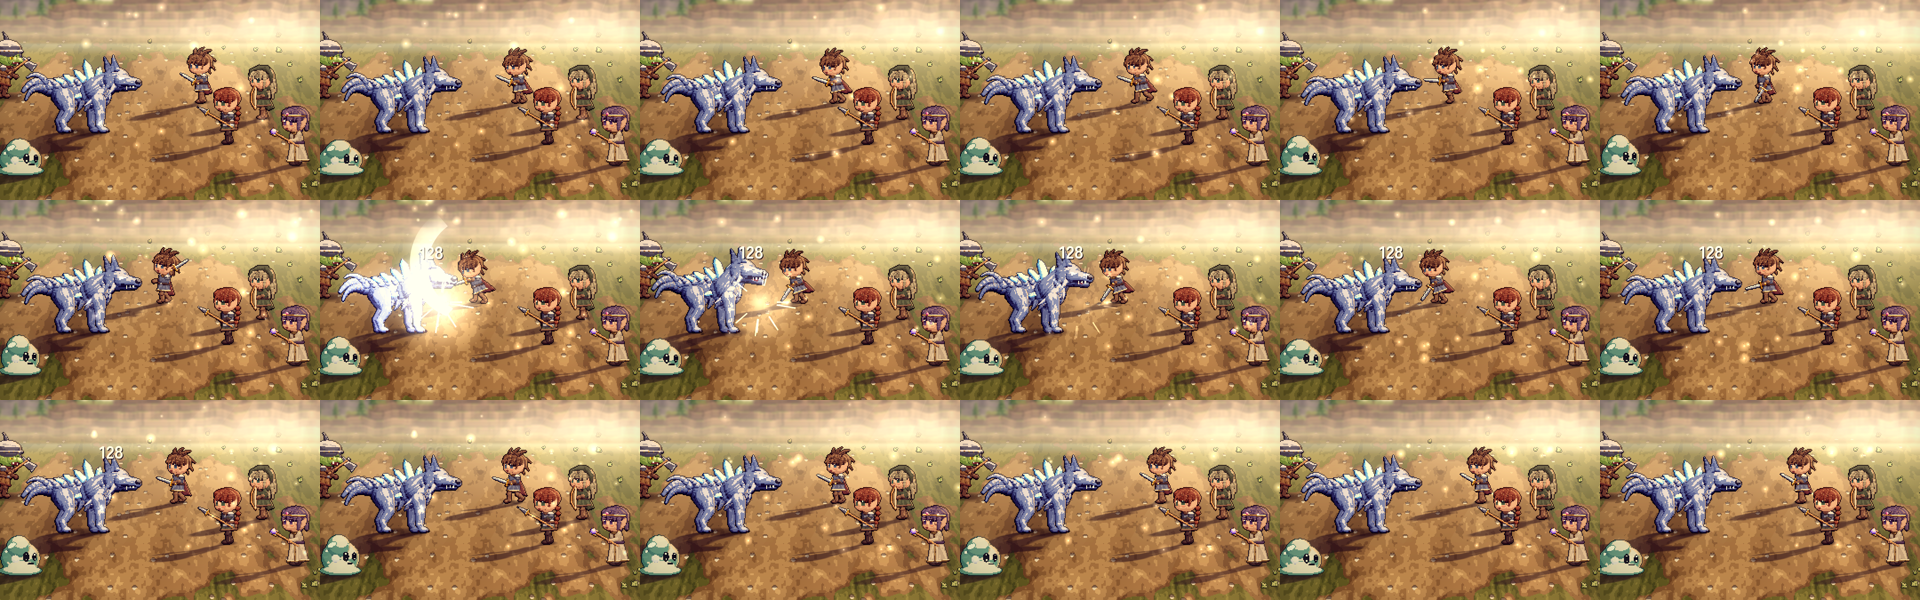
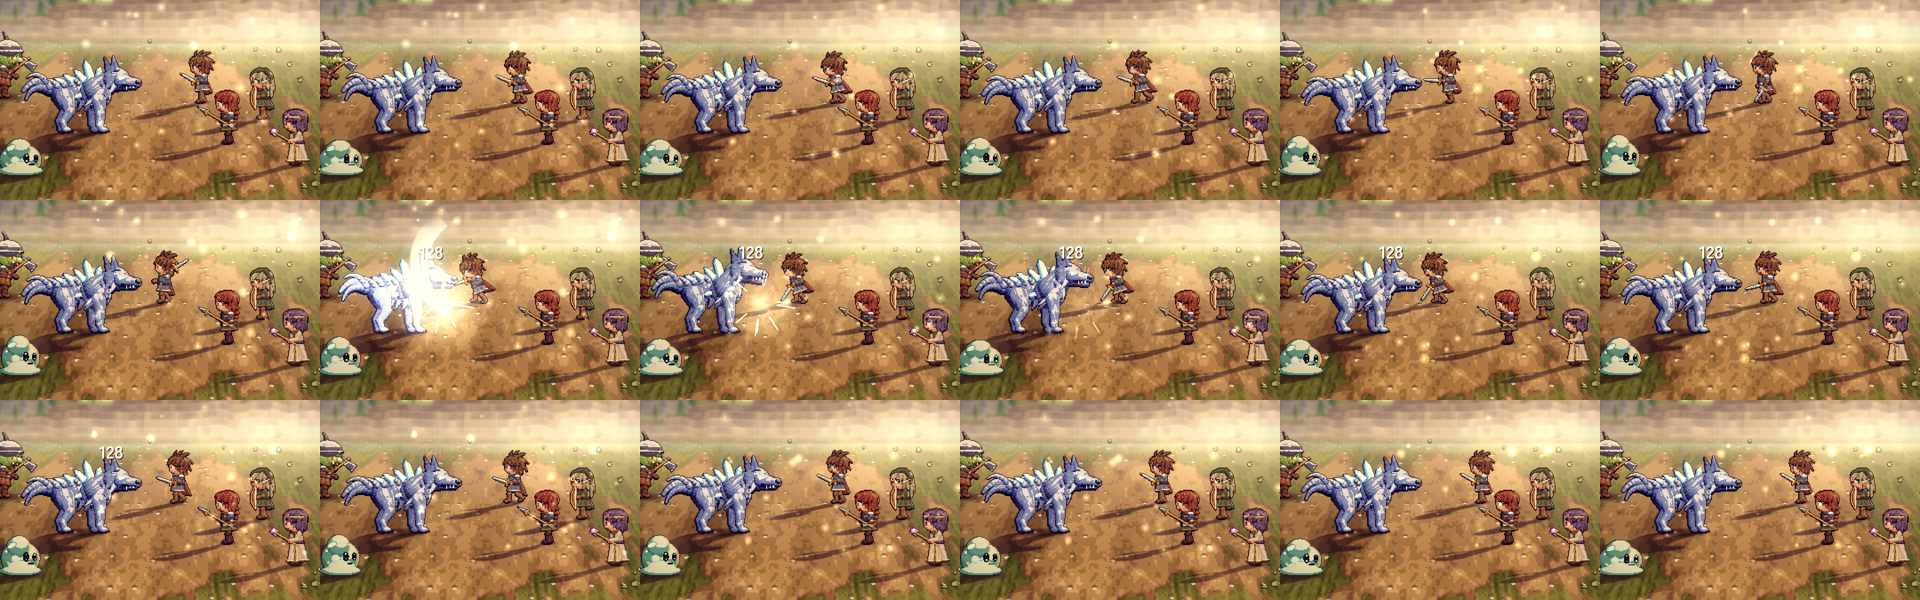
chronicle: WIP from running agents
Claude-Session: https://claude.ai/code/session_0177zLTT6UFzP7vKu3AgJSLT

diff --git a/chronicle/tools/test_battle.js b/chronicle/tools/test_battle.js
@@ -1,6 +1,6 @@
 #!/usr/bin/env node
 // Battle engine tests (node, no DOM) for A2: R.Mon (curves, tier scaling, golden, drops, heal), every damage formula,
-// statuses, buffs, rows and reach, techs / spells / WP / MP, counters and cover, supports (mods), monster AI conds,
+// statuses, buffs, rows and reach, techs / spells / MP, counters and cover, supports (mods), monster AI conds,
 // rounds, escape and preempt, rewards (EXP falloff, reserve 60 %, drops, pools), golden / rare / metal / summon /
 // boss phases, the glimmer hook, リピート R1–R6, live bookkeeping, the party AI (focus fire, thrift, glimmer aiming),
 // simulate(), and a run of every real action / monster / troop / zone in src/data.
@@ -1964,32 +1964,56 @@ guard('party AI', () => quiet(() => {
   ok(pc === 0, 'no percent spells on mobs');
   // the glimmer slot: in mob fights the attack uses a slot with open candidates
   ok(typeof AI.glimSlot === 'function' && typeof AI.candidatesOpen === 'function', 'glimmer aim helpers');
-  // D8 (§4.13.2-d): a middle-row staff (its 攻撃 cannot reach) hunts glimmers with its cheapest reach tech before weapon 2
+  // D8 (§4.13.2-d, SYSTEMS_REWORK §2.6): a middle-row weapon that cannot reach (a dagger — the staff reaches since A19)
+  // hunts glimmers with its cheapest reach tech (刃つぶて) before weapon 2's 攻撃
   const mkHunt = (o) => {
     const x = mk(Object.assign({ mons: ['tb_goblin', 'tb_goblin'] }, o || {}));
     for (const m of x.mons) { withD(m, { hp: 400 }); m.hp = m.mhp = 400; }
-    const mg = P(x, 2);
-    equip(mg, 'weapon2', 'tb_whip');
-    mg.wp = mg.mwp; mg.mp = 0;
+    const ar = P(x, 3);
+    ar.c.equip.weapon1 = 'tb_dagger'; ar.c.equip.weapon2 = 'tb_staff'; ar.c.techs = ['t_dagger_knives']; ar.c.spells = []; ar.c.wprof.dagger = R.Rules.K.PROF_PTS[30]; ar.refresh();
+    ar.mp = ar.mmp;
     return x;
   };
-  const h1 = mkHunt(), mg1 = P(h1, 2);
-  const open1 = AI.candidatesOpen(h1, mg1, { kind: 'tech', wtype: 'staff', rankB: h1.rankB, ef: h1.ef, tier: h1.glimTier, row: 'middle', silenced: false, used: 'tb_t_mind' });
-  ok(h1.effRow(mg1) === 'middle' && !h1.canReach(mg1, 'weapon1') && h1.canReach(mg1, 'weapon2'), 'D8 fixture: the staff cannot reach, the whip can');
-  const r1 = AI.glimReach(h1, mg1, AI.abilityOptions(h1, mg1));
-  ok(open1 && (r1 && r1.o.id === 'tb_t_mind' && r1.slot === 'weapon1'), `D8: glimReach → the staff slot's reach tech (${r1 && r1.o.id})`);
-  const hc = AI.partyCommands(h1, AI.AUTO_OPTS)[2];
-  ok(open1 && (hc && hc.type === 'tech' && hc.id === 'tb_t_mind' && hc.slot === 'weapon1'), `D8: the auto mage uses 念じ打ち, not the whip's 攻撃 (${hc && (hc.id || hc.type + ':' + hc.slot)})`);
-  const hc2 = AI.partyCommands(h1, AI.AUTO_OPTS)[2];
-  const hc3 = AI.partyCommands(h1, AI.AUTO_OPTS)[2];
-  ok(AI.GLIM_REACH.perBattle !== 2 || (hc2 && hc2.id === 'tb_t_mind' && hc3 && hc3.type === 'attack' && hc3.slot === 'weapon2'), `D8: at most ${AI.GLIM_REACH.perBattle} a fight, then the whip (${hc3 && (hc3.id || hc3.type + ':' + hc3.slot)})`);
-  const h2 = mkHunt(); P(h2, 2).wp = Math.floor(P(h2, 2).mwp * 0.4);
-  const hc4 = AI.partyCommands(h2, AI.AUTO_OPTS)[2];
-  ok(hc4 && hc4.type === 'attack' && hc4.slot === 'weapon2', `D8: WP below half → the whip's 攻撃 (${hc4 && (hc4.id || hc4.type)})`);
+  const h1 = mkHunt(), ar1 = P(h1, 3);
+  const open1 = AI.candidatesOpen(h1, ar1, { kind: 'tech', wtype: 'dagger', rankB: h1.rankB, ef: h1.ef, tier: h1.glimTier, row: 'middle', silenced: false, used: 't_dagger_knives' });
+  ok(h1.effRow(ar1) === 'middle' && !h1.canReach(ar1, 'weapon1') && h1.canReach(ar1, 'weapon2'), 'D8 fixture: the dagger cannot reach, the staff can');
+  const r1 = AI.glimReach(h1, ar1, AI.abilityOptions(h1, ar1));
+  ok(open1 && (r1 && r1.o.id === 't_dagger_knives' && r1.slot === 'weapon1'), `D8: glimReach → the dagger slot's reach tech (${r1 && r1.o.id})`);
+  const hc = AI.partyCommands(h1, AI.AUTO_OPTS)[3];
+  ok(open1 && (hc && hc.type === 'tech' && hc.id === 't_dagger_knives' && hc.slot === 'weapon1'), `D8: the auto archer uses the reach tech, not the staff's 攻撃 (${hc && (hc.id || hc.type + ':' + hc.slot)})`);
+  const hc2 = AI.partyCommands(h1, AI.AUTO_OPTS)[3];
+  const hc3 = AI.partyCommands(h1, AI.AUTO_OPTS)[3];
+  // (A18: after the hunt the member is an ordinary fighter again — with shared MP it may still pick the tech on its merits)
+  ok(AI.GLIM_REACH.perBattle !== 2 || (hc2 && hc2.id === 't_dagger_knives' && hc3 && AI.glimReach(h1, ar1, AI.abilityOptions(h1, ar1)) === null), `D8: at most ${AI.GLIM_REACH.perBattle} glimmer hunts a fight (${hc3 && (hc3.id || hc3.type + ':' + hc3.slot)})`);
+  const h2 = mkHunt(); P(h2, 3).mp = Math.floor(P(h2, 3).mmp * 0.4);
+  ok(AI.glimReach(h2, P(h2, 3), AI.abilityOptions(h2, P(h2, 3))) === null, 'D8: MP below half → no glimmer hunt');
   const h3 = mkHunt({ mons: ['tb_boss'] });
-  ok(AI.glimReach(h3, P(h3, 2), AI.abilityOptions(h3, P(h3, 2))) === null, 'D8: not in boss fights (WP is spent on the best action there)');
-  const h4 = mkHunt(); P(h4, 2).c.row = 'front'; P(h4, 2).refresh();
-  ok(AI.glimReach(h4, P(h4, 2), AI.abilityOptions(h4, P(h4, 2))) === null, 'D8: a front-row staff attacks normally');
+  ok(AI.glimReach(h3, P(h3, 3), AI.abilityOptions(h3, P(h3, 3))) === null, 'D8: not in boss fights (MP is spent on the best action there)');
+  const h4 = mkHunt(); P(h4, 3).c.row = 'front'; P(h4, 3).refresh();
+  ok(AI.glimReach(h4, P(h4, 3), AI.abilityOptions(h4, P(h4, 3))) === null, 'D8: a front-row dagger attacks normally');
+  // A18 §2.6: a 術師・回復役 (knows a heal / revive spell on allies) keeps max(30 % MP, 2 × the cheapest heal) in mob fights
+  ok(AI.HEAL_RESERVE.pct === 0.3 && AI.HEAL_RESERVE.heals === 2, 'HEAL_RESERVE {pct 0.3, heals 2}');
+  {
+    const hr = mk({ mons: ['tb_goblin', 'tb_goblin', 'tb_goblin'] });
+    for (const m of hr.mons) { withD(m, { hp: 400 }); m.hp = m.mhp = 400; }
+    const mg = P(hr, 2), ar = P(hr, 3);
+    const care = AI.careOf(hr, mg, AI.newPlan());
+    const cheapest = Math.min(...mg.c.spells.filter((id) => ['tb_s_heal', 'tb_s_healall', 'tb_s_revive'].includes(id)).map((id) => hr.mpCost(mg, id)));
+    ok(care.healer && care.healCost === cheapest && care.reserve === Math.max(mg.mmp * 0.3, 2 * cheapest), `careOf: the mage is a healer (${JSON.stringify(care)})`);
+    ok(!AI.careOf(hr, ar, AI.newPlan()).healer, 'careOf: an archer without heal spells is not');
+    mg.c.spells.push('tb_s_fireall');
+    const cost = hr.mpCost(mg, 'tb_s_fireall');
+    let spentLow = 0;
+    mg.mp = Math.ceil(care.reserve);   // any MP action would leave less than the reserve
+    void cost;
+    for (let i = 0; i < 20; i++) { const c = AI.partyCommands(hr, AI.AUTO_OPTS)[2]; if (c && c.type !== 'attack' && c.type !== 'defend' && DB.actions[c.id] && !DB.actions[c.id].effects.some((x) => ['heal', 'revive', 'cure'].includes(x.type)) && hr.mpCost(mg, c.id) > 0) spentLow++; }
+    ok(spentLow === 0, `mob fight: the healer keeps its heal reserve (${spentLow} damage casts below the line)`);
+    mg.mp = mg.mmp;
+    const full = AI.partyCommands(hr, AI.AUTO_OPTS)[2];
+    ok(full && full.type === 'spell', `… and casts again with MP to spare (${full && (full.id || full.type)})`);
+  }
+  // someone who knows spells (the mage) needs MP ≥ 60 % and a tech of ≤ 5 % of max MP (§2.6)
+  ok(AI.GLIM_REACH.mpMin === 0.5 && AI.GLIM_REACH.perBattle === 2 && AI.GLIM_REACH.casterMpMin === 0.6 && AI.GLIM_REACH.casterTechPct === 0.05, 'GLIM_REACH {mpMin 0.5, perBattle 2, caster 0.6 / 5 %}');
 }));
 
 // ================================================================ simulate
@@ -2002,7 +2026,8 @@ guard('simulate', () => {
   ok(JSON.stringify(party) === snap, 'the given party is untouched');
   const strip = (x) => JSON.stringify(Object.assign({}, x, { party: null, reserve: null, inv: null }));
   ok(a.result === 'win' && strip(a) === strip(b), 'deterministic with a seed');
-  ok(['rounds', 'partyHpPct', 'partyMpPct', 'partyWpPct', 'hpLossPct', 'deaths', 'damageDealt', 'damageTaken', 'mpUsed', 'wpUsed', 'itemsUsed', 'killed', 'exp', 'gold'].every((k) => typeof a[k] === 'number'), 'number fields');
+  ok(['rounds', 'partyHpPct', 'partyMpPct', 'hpLossPct', 'deaths', 'damageDealt', 'damageTaken', 'mpUsed', 'itemsUsed', 'killed', 'exp', 'gold'].every((k) => typeof a[k] === 'number'), 'number fields');
+  ok(!('partyWpPct' in a) && !('wpUsed' in a) && !('wpUsedBy' in a), 'no WP fields (A18)');
   ok(Array.isArray(a.mpUsedBy) && a.mpUsedBy.length === 4 && typeof a.casts === 'object' && Array.isArray(a.glimmers) && Array.isArray(a.profUps) && Array.isArray(a.drops) && Array.isArray(a.expEach), 'per-member fields');
   ok(a.killed === 3 && a.exp > 0 && a.Lb === 18 && a.Tb === 2, `sensible (${a.rounds} rounds, ${a.hpLossPct}% HP lost)`);
   const lose = B.simulate({ party: R.fxBattleParty(1), troop: 'tb_troop_boss', tier: 6, seed: 1 });

diff --git a/chronicle/tools/fixtures/battle/rules_shim.js b/chronicle/tools/fixtures/battle/rules_shim.js
@@ -14,7 +14,7 @@
 
   const STATS = ['str', 'vit', 'dex', 'agi', 'int', 'mnd'];
   const SLOTS = ['weapon1', 'weapon2', 'shield', 'head', 'body', 'hands', 'feet', 'acc1', 'acc2'];
-  const WTYPES = ['sword', 'greatsword', 'dagger', 'axe', 'spear', 'bow', 'club', 'staff', 'katana', 'fist', 'whip'];
+  const WTYPES = ['sword', 'greatsword', 'dagger', 'axe', 'spear', 'bow', 'staff'];   // A19 (bare hands = the 'fist' entry below, not a type)
   const ELEMENTS = ['fire', 'water', 'wind', 'earth', 'light', 'dark'];
   const WTYPE = {
     sword: { hands: 1, reach: false, kind: 'slash', mult: 1.0, hit: 0, crit: 2, stat: ['str'], magMult: 0.5 },
@@ -23,18 +23,15 @@
     axe: { hands: 1, reach: false, kind: 'slash', mult: 1.15, hit: -10, crit: 4, stat: ['str'], magMult: 0.5 },
     spear: { hands: 2, reach: true, kind: 'pierce', mult: 1.25, hit: 0, crit: 2, stat: ['str', 'dex'], magMult: 0.5 },
     bow: { hands: 2, reach: true, kind: 'pierce', mult: 1.1, hit: 5, crit: 4, stat: ['dex'], magMult: 0.5 },
-    club: { hands: 1, reach: false, kind: 'blunt', mult: 1.05, hit: 0, crit: 2, stat: ['str'], magMult: 0.5 },
-    staff: { hands: 1, reach: false, kind: 'blunt', mult: 0.6, hit: 0, crit: 0, stat: ['str', 'int'], magMult: 1.0 },
-    katana: { hands: 1, reach: false, kind: 'slash', mult: 1.05, hit: 0, crit: 10, stat: ['str', 'dex'], magMult: 0.5 },
+    staff: { hands: 1, reach: true, kind: 'blunt', mult: 0.6, hit: 0, crit: 0, stat: ['str', 'int'], magMult: 1.0 },
     fist: { hands: 1, reach: false, kind: 'blunt', mult: 0.9, hit: 5, crit: 5, stat: ['str', 'agi'], magMult: 0.5 },
-    whip: { hands: 1, reach: true, kind: 'blunt', mult: 0.8, hit: 0, crit: 2, stat: ['dex'], magMult: 0.5 },
   };
   const K = {
     STAT_K: 64, DK: (L) => 40 + 5 * L,
     W: [8, 14, 21, 30, 40, 51, 64, 78, 94, 112], U: [1, 1.5, 2, 2.5, 3, 3.5, 4, 4.5, 5, 6], D: (T) => 70 + 30 * T, LZ: (T) => 6 + 6 * T,
     WTYPE,
-    HP: { a: 17.5, b: 14.7, p: 0.9 }, MP: { a: 8, b: 2.6, p: 0.85, cap: 150 }, WP: { a: 5, b: 1.8, p: 0.85 },
-    GROW: { hp: { S: 1.25, A: 1.12, B: 1.0, C: 0.9, D: 0.8 }, mp: { S: 1.3, A: 1.15, B: 1.0, C: 0.8, D: 0.6 }, wp: { S: 1.3, A: 1.15, B: 1.0, C: 0.8, D: 0.6 } },
+    HP: { a: 17.5, b: 14.7, p: 0.9 }, MP: { a: 8, b: 2.6, p: 0.85, cap: 250 },
+    GROW: { hp: { S: 1.25, A: 1.12, B: 1.0, C: 0.9, D: 0.8 }, mp: { S: 1.3, A: 1.15, B: 1.0, C: 0.85, D: 0.7 } },
     EXP: { a: 3, b: 1.2, c: 0.06, bplMax: 16, bplAmp: 12, bplTau: 12, perBattle: 3.3 },
     FALLOFF: { up: 0.75, downStep: 0.1, downMax: 10, min: 0.03 }, RESERVE_RATE: 0.6,
     ROW: { middleTaken: 0.7, weight: { front: 2, middle: 1 }, aimMiddle: { front: 1, middle: 3 } },
@@ -48,14 +45,14 @@
     DROP: { cap: { normal: 0.75, rare: 0.5, super: 0.125 }, modCap: 150, golden: { normal: 2, rare: 8, super: 8 } },
     MODCAP: { party: 150, preempt: 30, exp: 30, expMin: -100, glim: 40, prof: 50, cost: -50, encounter: 50 },
     GOLDEN: { rate: 1 / 40, hp: 2, stat: 1.2, exp: 3, gold: 5, lvShow: 2 }, RARE_ENC: 80, METAL: { exp: 30, gold: 10, flee: 0.5 },
-    AFTER: { mpPct: 0.1, wpPct: 0.1 }, ESCAPE: { base: 0.55, step: 0.12, agi: 0.5, min: 0.25, max: 0.95 }, PREEMPT: 1 / 16,
+    AFTER: { mpPct: 0.12 }, ESCAPE: { base: 0.55, step: 0.12, agi: 0.5, min: 0.25, max: 0.95 }, PREEMPT: 1 / 16,
     WEIGHT: { heavy: { def: 1, mdef: 0.2, eva: 8 }, light: { def: 0.65, mdef: 0.35, eva: 5 }, cloth: { def: 0.4, mdef: 0.6, eva: 2 } },
   };
   K.hpBoss = (L) => (6 + 2.6 * L + 0.1 * L * L) * (0.65 + 0.05 * U.clamp((L - 6) / 6, 0, 10));
 
   function src(c) { return (c && ((c.id === 'hero' && DB.heroTypes[c.heroType]) || DB.companions[c.id])) || {}; }
   function baseStats(c) { const s = src(c).stats || c._stats || {}; const o = {}; for (const k of STATS) o[k] = s[k] || 20; return o; }
-  function growth(c) { return src(c).growth || { hp: 'B', mp: 'B', wp: 'B' }; }
+  function growth(c) { return src(c).growth || { hp: 'B', mp: 'B' }; }
   function aptitude(c) {
     const a = src(c).apt || { w: {}, e: {} };
     const A = K.GLIM.apt;
@@ -99,8 +96,7 @@
       const vit = stats0(c).vit;
       return Math.min(999, Math.round(Math.round(lvCurve(K.HP, L) * K.GROW.hp[g.hp || 'B'] * ((160 + vit) / 200)) * (1 + (m.hpPct || 0) / 100) + b));
     }
-    if (key === 'mp') return Math.min(K.MP.cap, Math.round(Math.round(lvCurve(K.MP, L) * K.GROW.mp[g.mp || 'B']) * (1 + (m.mpPct || 0) / 100) + b));
-    return Math.min(99, Math.round(Math.round(lvCurve(K.WP, L) * K.GROW.wp[g.wp || 'B']) * (1 + (m.wpPct || 0) / 100) + b));
+    return Math.min(K.MP.cap, Math.round(Math.round(lvCurve(K.MP, L) * K.GROW.mp[g.mp || 'B']) * (1 + (m.mpPct || 0) / 100) + b));
   }
   /** the six stats with equipment (and % mods) */
   function stats0(c) {
@@ -152,7 +148,7 @@
     const elemResist = {};
     for (const el of ELEMENTS) elemResist[el] = m.elemResist && m.elemResist[el] != null ? m.elemResist[el] : 1;
     return Object.assign(s, {
-      hp: maxAt(c, 'hp'), mp: maxAt(c, 'mp'), wp: maxAt(c, 'wp'),
+      hp: maxAt(c, 'hp'), mp: maxAt(c, 'mp'),
       atk: W1.atk, mag: Math.round((wm + (m.mag || 0)) * (64 + s.int) / 64), def, mdef,
       hit: W1.hit, eva: Math.min(60, Math.floor(s.agi / 5) + eva + (m.eva || 0)), crit: W1.crit, spd: s.agi + (m.spd || 0),
       w, elemResist, statusImmune: (m.statusImmune || []).slice(), mods: m,
@@ -165,7 +161,7 @@
       const it = e[sl] && DB.items[e[sl]];
       if (it) out.push({ type: 'weapon', slot: sl, wtype: it.wtype, name: (DB.weaponTypes[it.wtype] || {}).name || it.wtype });
     }
-    if (!out.length) out.push({ type: 'weapon', slot: null, wtype: 'fist', name: (DB.weaponTypes.fist || {}).name || '体術' });
+    if (!out.length) out.push({ type: 'weapon', slot: null, wtype: 'fist', name: '素手' });
     if ((c.spells || []).length && !mods(c).noSpell) out.push({ type: 'spell', name: '術' });
     out.push({ type: 'defend', name: '防御' }, { type: 'item', name: '道具' });
     return out;
@@ -178,8 +174,7 @@
     if (!a || !a[key]) return 0;
     return Math.max(1, Math.round(a[key] * (1 + Math.max(K.MODCAP.cost, mods(c)[pct] || 0) / 100)));
   }
-  const wpCost = (c, id) => costOf(c, id, 'wp', 'wpCostPct');
-  const mpCost = (c, id) => costOf(c, id, 'mp', 'mpCostPct');
+  const mpCost = (c, id) => costOf(c, id, 'mp', (DB.actions[id] || {}).kind === 'tech' ? 'techCostPct' : 'mpCostPct');   // A18: techs pay MP
   function effectiveRow(c, party) {
     if ((c.row || 'front') !== 'middle') return 'front';
     return (party || []).some((p) => p.hp > 0 && (p.row || 'front') !== 'middle') ? 'middle' : 'front';
@@ -216,12 +211,12 @@
   const need = (L) => Math.round(mexp(L) * K.EXP.perBattle * bpl(L));
   function expForLevel(L) { let s = 0; for (let i = 1; i < L; i++) s += need(i); return s; }
   function gainExp(c, n) {
-    const before = { hp: maxAt(c, 'hp'), mp: maxAt(c, 'mp'), wp: maxAt(c, 'wp') };
+    const before = { hp: maxAt(c, 'hp'), mp: maxAt(c, 'mp') };
     const lv0 = c.level || 1;
     c.exp = (c.exp || 0) + n;
     while (c.level < 99 && c.exp >= expForLevel(c.level + 1)) c.level++;
-    const gains = { hp: maxAt(c, 'hp') - before.hp, mp: maxAt(c, 'mp') - before.mp, wp: maxAt(c, 'wp') - before.wp };
-    if (c.level > lv0 && c.hp > 0) { c.hp += gains.hp; c.mp += gains.mp; c.wp += gains.wp; }
+    const gains = { hp: maxAt(c, 'hp') - before.hp, mp: maxAt(c, 'mp') - before.mp };
+    if (c.level > lv0 && c.hp > 0) { c.hp += gains.hp; c.mp += gains.mp; }
     return { levels: c.level - lv0, gains };
   }
   function battleExp(c, killed) {
@@ -235,7 +230,7 @@
   }
   function clampHpMp(c) {
     const st = stats(c);
-    c.hp = U.clamp(c.hp | 0, 0, st.hp); c.mp = U.clamp(c.mp | 0, 0, st.mp); c.wp = U.clamp(c.wp | 0, 0, st.wp);
+    c.hp = U.clamp(c.hp | 0, 0, st.hp); c.mp = U.clamp(c.mp | 0, 0, st.mp);
   }
   function zoneLevel(zoneId, map) {
     const z = DB.encounters[zoneId] || {};
@@ -248,7 +243,7 @@
 
   R.Rules = Object.assign({}, real || {}, {
     K, STATS, SLOTS, WTYPES, ELEMENTS, MAX_LEVEL: 99,
-    baseStats, aptitude, stats, mods, maxAt, commands, techList, spellList, wpCost, mpCost, effectiveRow,
+    baseStats, aptitude, stats, mods, maxAt, commands, techList, spellList, mpCost, effectiveRow,
     profRank, addProf, train, expForLevel, gainExp, battleExp, clampHpMp, zoneLevel, isAlive,
     dk: K.DK, prof: (c, kind, id) => ((kind === 'w' ? c.wprof : c.eprof) || {})[id] || 0,
     _shim: true,

diff --git a/chronicle/tools/check_battle.js b/chronicle/tools/check_battle.js
@@ -375,7 +375,7 @@ part('C10 metal §4.10.5', () => {
 // ------------------------------------------------------------------ C11 after battle
 part('C11 after battle §4.12.1', () => {
   const party = partyAt(2);
-  party.forEach((c) => { c.mp = 0; c.wp = 0; });
+  party.forEach((c) => { c.mp = 0; });
   party[3].hp = 0;
   const r = B.resolveMonsters({ mons: [['@jelly', 1]], tier: 2 }, {});
   const e = new B.Engine({ party, mons: r.mons, tier: r.Tb, lv: r.Lb, noSurprise: true, after: true });
@@ -383,7 +383,7 @@ part('C11 after battle §4.12.1', () => {
   e.result = 'win';
   e.finish();
   ok(party[0].hp === e.party[0].mhp, 'win: the living get full HP');
-  ok(party[0].mp === Math.ceil(e.party[0].mmp * 0.1) && party[0].wp === Math.ceil(e.party[0].mwp * 0.1), 'win: MP / WP +10 % rounded up');
+  ok(party[0].mp === Math.ceil(e.party[0].mmp * 0.12) && !('wp' in party[0]), 'win: MP +12 % rounded up, no WP (SYSTEMS_REWORK §2.4)');
   ok(party[3].hp === 0, 'the fallen stay down');
   ok(party.every((c) => c.status && !Object.keys(c.status).length), 'statuses cleared');
 });
@@ -398,9 +398,9 @@ function partyAt(T) {
       if (id === 'hero') c = R.Rules.newChar('hero', { type: Object.keys(DB.heroTypes || {})[0], gender: 'm', name: 'テスト' });
       else c = R.Rules.newChar(id);
     } catch (e) { c = null; }
-    if (!c) c = { id, name: 'X' + i, level: 1, hp: 30, mp: 10, wp: 10, equip: {}, status: {}, techs: [], spells: [] };
+    if (!c) c = { id, name: 'X' + i, level: 1, hp: 30, mp: 10, equip: {}, status: {}, techs: [], spells: [] };
     try { R.Rules.gainExp(c, R.Rules.expForLevel ? R.Rules.expForLevel(lv) : 0); } catch (e) { c.level = lv; }
-    try { const st = R.Rules.stats(c); c.hp = st.hp; c.mp = st.mp; c.wp = st.wp; } catch (e) { /* keep */ }
+    try { const st = R.Rules.stats(c); c.hp = st.hp; c.mp = st.mp; } catch (e) { /* keep */ }
     c.row = i === 3 ? 'middle' : 'front';
     return c;
   };
